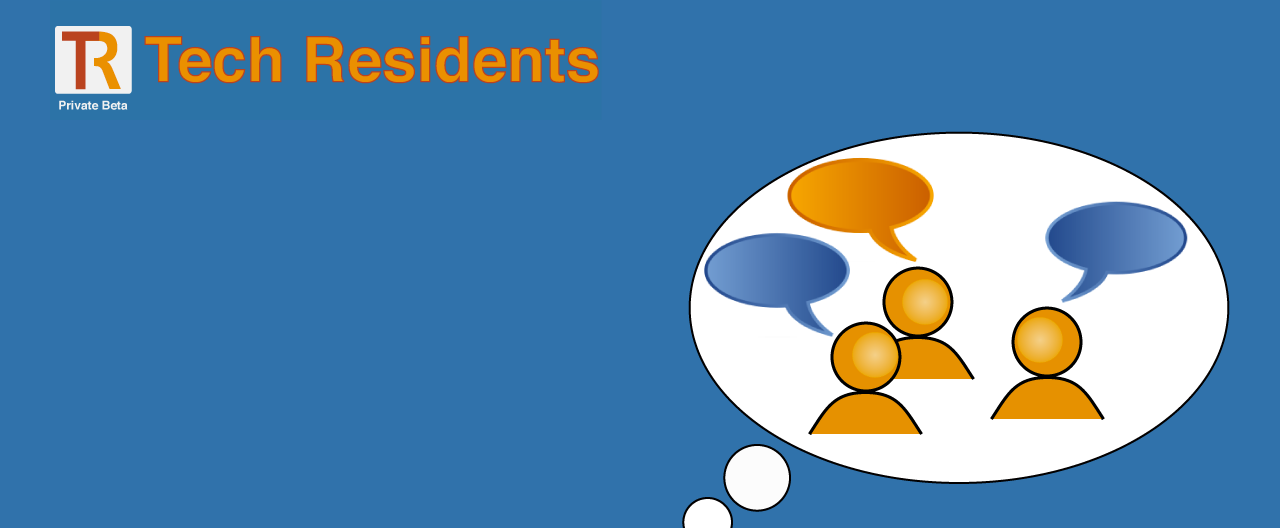
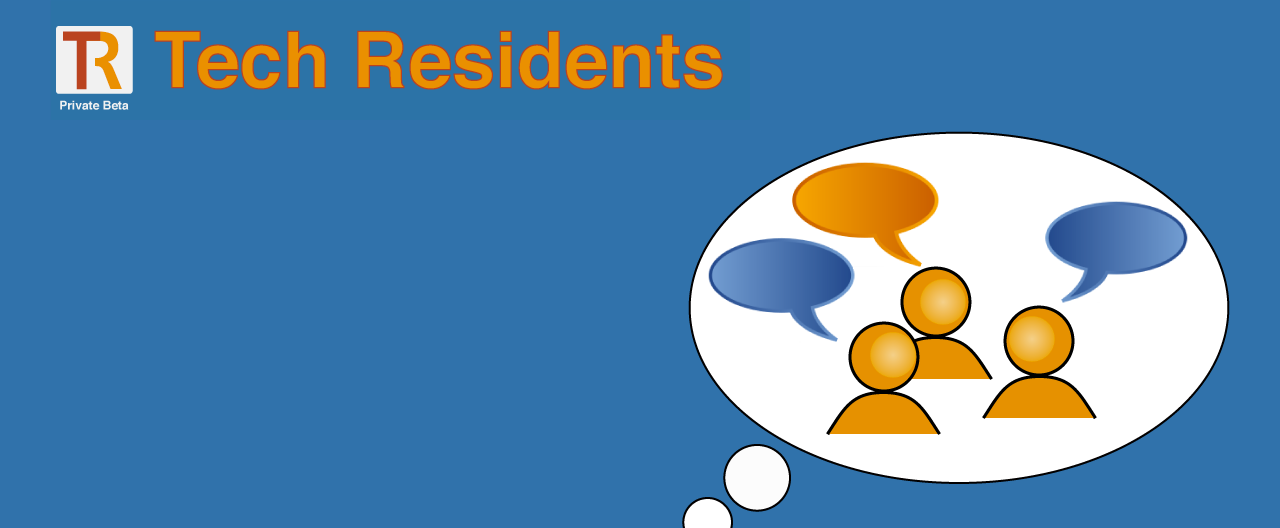
Tweaked the landing page image background.

diff --git a/common/static/css/landing.css b/common/static/css/landing.css
@@ -43,7 +43,7 @@
 #landing-blue-stripe {
     height: 528px;
     background-color: #2A73A7;
-    background-image: url(../img/landing-background-full.png);
+    background-image: url(../img/landing-background-blue-stripe-only.png);
     background-repeat: no-repeat;
 }
 
